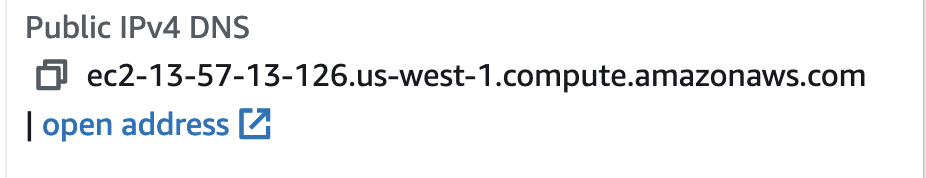
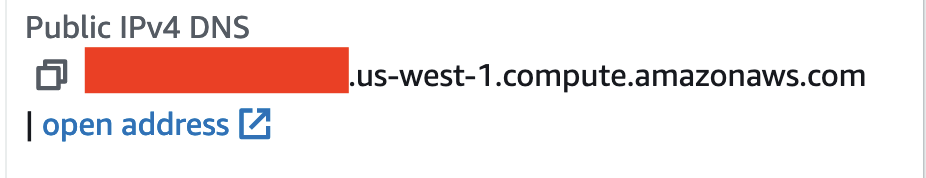
update

Changed region(s): [[0.0907, 0.2528, 0.3931, 0.5337]]

diff --git a/02-experiment-tracking/deploy_mlflow/deploy_mlflow_aws.md b/02-experiment-tracking/deploy_mlflow/deploy_mlflow_aws.md
@@ -84,7 +84,7 @@ For example my case:
 ![Public DNS](https://github.com/surawut-jirasaktavee/course-mlops-zoomcamp/blob/main/02-experiment-tracking/deploy_mlflow/images/aws_ec2_instance/public_dns.png)
 
 ```Zsh
-ssh -i "prem-mlops-zoomcamp.pem" ubuntu@ec2-13-57-13-126.us-west-1.compute.amazonaws.com
+ssh -i "prem-mlops-zoomcamp.pem" ubuntu@ec2-<your_public_ip>.us-west-1.compute.amazonaws.com
 ```
 
 **Optional**: 
@@ -106,7 +106,7 @@ open the config file and set your credential in the file.
 
 ```Zsh
 Host mlops-zoomcamp-prem
-    Hostname 13.57.13.126
+    Hostname <your_public_ip>
     User ubuntu
     IdentityFile ~/path/to/save/<credentials>.pem
     StrictHostKeyChecking no
